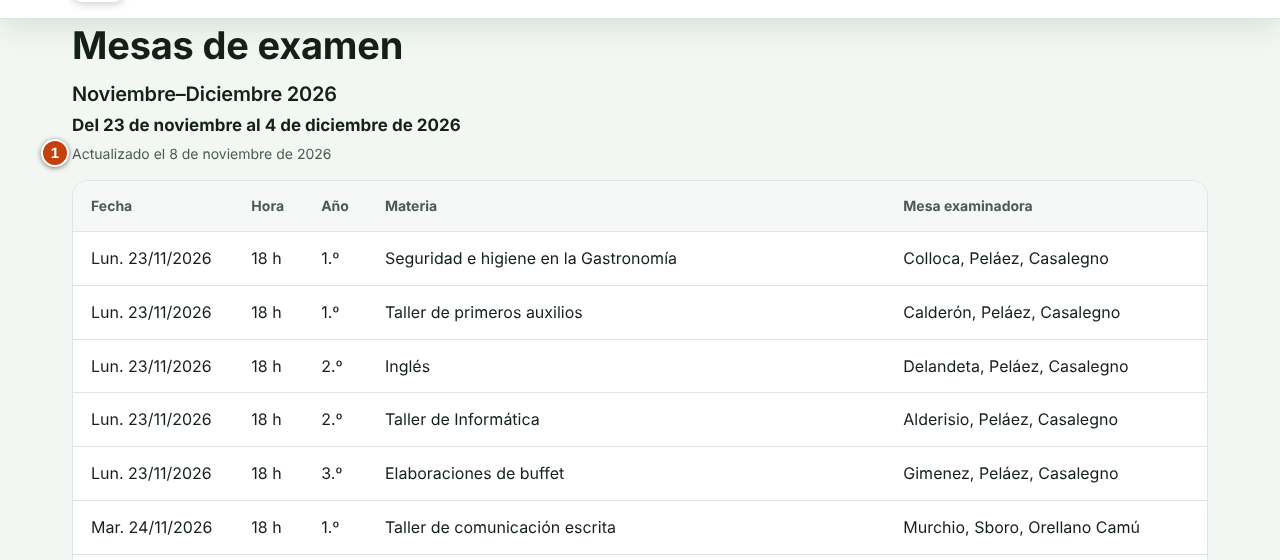
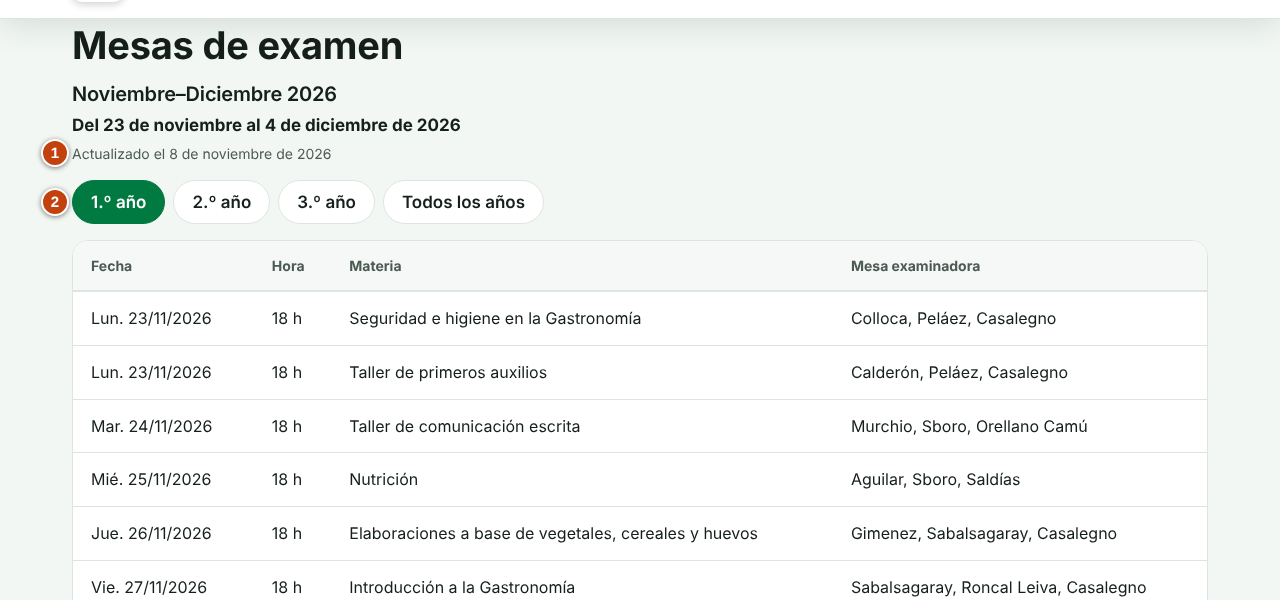
Agrega el filtro por año a las mesas de examen y un alto máximo a las tablas de Alumnos
Las mesas tienen los mismos botones de año que los horarios; con «Todos los años», cada año va debajo de su fila de título. En la computadora, las tablas de horarios y mesas tienen un alto máximo, se desplazan por dentro con el encabezado fijo y vuelven al principio al cambiar el filtro. Actualiza el manual de usuario, sus capturas y el GIF del README.

diff --git a/client/src/components/LlamadoPublico.jsx b/client/src/components/LlamadoPublico.jsx
@@ -1,4 +1,6 @@
-import { avisoDelLlamado, textoAnio, textoFechaDeMesa, textoFechasDelLlamado, textoHoraDeMesa } from "../mesas.js";
+import { useState } from "react";
+import { OPCIONES_DE_ANIO, TODOS_LOS_ANIOS, anioInicial } from "../academica.js";
+import { avisoDelLlamado, textoFechaDeMesa, textoFechasDelLlamado, textoHoraDeMesa } from "../mesas.js";
 
 // Un llamado de mesas de examen tal como lo ven los alumnos: nombre, fechas generales, aviso y tabla.
 // Un llamado sin mesas (un anuncio) no muestra la tabla. Lo que falta se muestra "A confirmar".
@@ -7,14 +9,30 @@ import { avisoDelLlamado, textoAnio, textoFechaDeMesa, textoFechasDelLlamado, te
 // publicación, en el encabezado del llamado; la vista previa del panel no la recibe.
 // En Alumnos, un turno que ya terminó sigue a la vista con «Turno finalizado» ("finalizado" lo calcula el servidor).
 // La vista previa del panel no lo recibe.
+// Como en los horarios, un botón por año de la carrera y «Todos los años»: al entrar se ve el primer año con mesas.
+// Con «Todos los años», cada año va en su propio <tbody>, encabezado por una fila con su nombre; dentro de cada año,
+// las mesas siguen ordenadas por fecha y hora. El PDF del llamado tiene siempre todas las mesas.
 // En el celular cada mesa se muestra como una ficha (fecha y hora arriba, la materia y el resto debajo), sin
 // desplazar la tabla a los costados (H-95). Los encabezados siguen en la tabla, ocultos solo a la vista, y los roles
 // explícitos conservan la tabla para los lectores de pantalla aunque el CSS cambie cómo se dibuja.
+
 export default function LlamadoPublico({ llamado, accion, actualizado }) {
+  const [anio, setAnio] = useState(() => anioInicial(llamado.mesas));
   const fechas = textoFechasDelLlamado(llamado);
   const aviso = avisoDelLlamado(llamado);
   const conTribunal = llamado.mesas.some((m) => m.tribunal);
   const conAula = llamado.mesas.some((m) => m.aula);
+  const columnas = 3 + conTribunal + conAula;
+  const porAnio = anio === TODOS_LOS_ANIOS;
+  const visibles = porAnio ? llamado.mesas : llamado.mesas.filter((m) => m.anioCarrera === anio);
+  // Grupos de filas: uno por año con «Todos los años», o uno solo con el año elegido.
+  const grupos = porAnio
+    ? OPCIONES_DE_ANIO.filter((o) => o.valor !== TODOS_LOS_ANIOS)
+        .map((o) => ({ anio: o.valor, mesas: visibles.filter((m) => m.anioCarrera === o.valor) }))
+        .filter((g) => g.mesas.length > 0)
+    : visibles.length > 0
+      ? [{ anio, mesas: visibles }]
+      : [];
 
   return (
     <article className="llamado-publico">
@@ -28,75 +46,94 @@ export default function LlamadoPublico({ llamado, accion, actualizado }) {
       {actualizado && <p className="actualizado-llamado">{actualizado}</p>}
       {aviso && <p className="aviso-llamado">{aviso}</p>}
       {llamado.mesas.length > 0 && (
-        <div className="tabla-caja">
-          <table role="table">
-            <thead role="rowgroup">
-              <tr role="row">
-                <th role="columnheader" scope="col">
-                  Fecha
-                </th>
-                <th role="columnheader" scope="col">
-                  Hora
-                </th>
-                <th role="columnheader" scope="col" className="col-anio">
-                  Año
-                </th>
-                <th role="columnheader" scope="col">
-                  Materia
-                </th>
-                {conTribunal && (
+        <>
+          <div className="pestanas" role="group" aria-label="Año de la carrera">
+            {OPCIONES_DE_ANIO.map((o) => (
+              <button key={o.valor} type="button" aria-pressed={anio === o.valor} onClick={() => setAnio(o.valor)}>
+                {o.texto}
+              </button>
+            ))}
+          </div>
+          {/* La "key" con el año vuelve a crear la caja al cambiar de año: la tabla empieza otra vez desde arriba,
+              aunque antes se haya desplazado por dentro. */}
+          <div className="tabla-caja" key={anio}>
+            <table role="table">
+              <thead role="rowgroup">
+                <tr role="row">
                   <th role="columnheader" scope="col">
-                    Mesa examinadora
+                    Fecha
                   </th>
-                )}
-                {conAula && (
                   <th role="columnheader" scope="col">
-                    Aula
+                    Hora
                   </th>
-                )}
-              </tr>
-            </thead>
-            <tbody role="rowgroup">
-              {llamado.mesas.map((m) => (
-                // Sin fecha ni hora, la ficha del celular dice una sola vez «Fecha y hora a confirmar». Es solo
-                // visual: los lectores de pantalla siguen leyendo las celdas Fecha y Hora por separado.
-                <tr role="row" key={m.id} className={!m.fecha && !m.hora ? "sin-fecha-ni-hora" : undefined}>
-                  <td role="cell" className="col-fecha sin-corte">
-                    <span className="dato-celda">{textoFechaDeMesa(m.fecha)}</span>
-                    {!m.fecha && !m.hora && (
-                      <span className="fecha-hora-movil" aria-hidden="true">
-                        Fecha y hora a confirmar
-                      </span>
-                    )}
-                  </td>
-                  <td role="cell" className="col-hora sin-corte">
-                    {textoHoraDeMesa(m.hora)}
-                  </td>
-                  <td role="cell" className="col-anio">
-                    {textoAnio(m.anioCarrera)}
-                  </td>
-                  <td role="cell" className="col-materia">
-                    {m.materia}
-                    {/* Solo a la vista en el celular: los lectores de pantalla ya leen la columna Año. */}
-                    <span className="anio-movil" aria-hidden="true">
-                      {textoAnio(m.anioCarrera)} año
-                    </span>
-                  </td>
+                  <th role="columnheader" scope="col">
+                    Materia
+                  </th>
                   {conTribunal && (
-                    <td role="cell" className="col-detalle" data-etiqueta="Mesa examinadora">
-                      {m.tribunal || "A confirmar"}
-                    </td>
+                    <th role="columnheader" scope="col">
+                      Mesa examinadora
+                    </th>
                   )}
                   {conAula && (
-                    <td role="cell" className={"col-detalle" + (m.aula ? "" : " sin-corte")} data-etiqueta="Aula">
-                      {m.aula || "A confirmar"}
-                    </td>
+                    <th role="columnheader" scope="col">
+                      Aula
+                    </th>
                   )}
                 </tr>
+              </thead>
+              {grupos.map((g) => (
+                <tbody role="rowgroup" key={g.anio}>
+                  {porAnio && (
+                    <tr role="row" className="fila-anio">
+                      <th role="rowheader" scope="rowgroup" colSpan={columnas}>
+                        {g.anio}.º año
+                      </th>
+                    </tr>
+                  )}
+                  {g.mesas.map((m) => (
+                    // Sin fecha ni hora, la ficha del celular dice una sola vez «Fecha y hora a confirmar». Es solo
+                    // visual: los lectores de pantalla siguen leyendo las celdas Fecha y Hora por separado.
+                    <tr role="row" key={m.id} className={!m.fecha && !m.hora ? "sin-fecha-ni-hora" : undefined}>
+                      <td role="cell" className="col-fecha sin-corte">
+                        <span className="dato-celda">{textoFechaDeMesa(m.fecha)}</span>
+                        {!m.fecha && !m.hora && (
+                          <span className="fecha-hora-movil" aria-hidden="true">
+                            Fecha y hora a confirmar
+                          </span>
+                        )}
+                      </td>
+                      <td role="cell" className="col-hora sin-corte">
+                        {textoHoraDeMesa(m.hora)}
+                      </td>
+                      <td role="cell" className="col-materia">
+                        {m.materia}
+                      </td>
+                      {conTribunal && (
+                        <td role="cell" className="col-detalle" data-etiqueta="Mesa examinadora">
+                          {m.tribunal || "A confirmar"}
+                        </td>
+                      )}
+                      {conAula && (
+                        <td role="cell" className={"col-detalle" + (m.aula ? "" : " sin-corte")} data-etiqueta="Aula">
+                          {m.aula || "A confirmar"}
+                        </td>
+                      )}
+                    </tr>
+                  ))}
+                </tbody>
               ))}
-            </tbody>
-          </table>
-        </div>
+              {grupos.length === 0 && (
+                <tbody role="rowgroup">
+                  <tr role="row">
+                    <td role="cell" colSpan={columnas}>
+                      No hay mesas de {anio}.º año en este llamado.
+                    </td>
+                  </tr>
+                </tbody>
+              )}
+            </table>
+          </div>
+        </>
       )}
       {accion}
     </article>

diff --git a/client/src/styles.css b/client/src/styles.css
@@ -3842,9 +3842,9 @@ body[data-rol="bedelia"] [data-solo-admin] {
   margin-bottom: 16px;
 }
 
-/* Horarios con «Todos los años»: una fila con el nombre de cada año, en verde claro, distinta del encabezado
-   (gris) y de las filas de las materias (blanco). */
-.horarios-publicos .fila-anio th {
+/* Horarios y mesas con «Todos los años»: una fila con el nombre de cada año, en verde claro, distinta del
+   encabezado (gris) y de las filas (blanco). */
+.fila-anio th {
   padding: 10px 16px;
   background: var(--verde-suave);
   color: var(--verde);
@@ -3852,6 +3852,25 @@ body[data-rol="bedelia"] [data-solo-admin] {
   font-weight: 700;
   text-align: left;
   border-bottom: 1px solid var(--borde);
+}
+
+/* Horarios y mesas en la computadora: la tabla tiene un alto máximo y se desplaza por dentro, con el encabezado de
+   las columnas siempre a la vista. Así cada sección tiene un largo parecido aunque haya muchas filas. En el celular
+   no se aplica: las filas son fichas y un desplazamiento dentro de otro es incómodo con el dedo. */
+@media (min-width: 601px) {
+  .horarios-publicos .tabla-caja,
+  .llamado-publico .tabla-caja {
+    max-height: 560px;
+    overflow-y: auto;
+  }
+
+  .horarios-publicos thead th,
+  .llamado-publico thead th {
+    position: sticky;
+    top: 0;
+    z-index: 1;
+    box-shadow: inset 0 -1px 0 var(--borde);
+  }
 }
 
 /* Horarios publicados en el celular: cada fila es una ficha (día y horario arriba; materia, docente, aula y turno
@@ -4145,18 +4164,21 @@ body[data-rol="bedelia"] [data-solo-admin] {
   align-items: center;
 }
 
-/* Mesas de examen en el celular (H-95): cada mesa es una ficha (fecha y hora arriba; materia, año, mesa
-   examinadora y aula debajo), para no desplazar la tabla a los costados. Reglas propias, separadas de las de los
-   horarios, aunque se parezcan: así un cambio acá no altera cómo se ven los horarios. */
-.llamado-publico .anio-movil,
+/* Botones de año de un llamado, como en los horarios. */
+.llamado-publico .pestanas {
+  margin-bottom: 16px;
+}
+
+/* Mesas de examen en el celular (H-95): cada mesa es una ficha (fecha y hora arriba; materia, mesa examinadora y
+   aula debajo), para no desplazar la tabla a los costados. Reglas propias, separadas de las de los horarios, aunque
+   se parezcan: así un cambio acá no altera cómo se ven los horarios. */
 .llamado-publico .fecha-hora-movil {
   display: none;
 }
 
 @media (max-width: 600px) {
-  /* Los encabezados y la celda Año se ocultan solo a la vista: los lectores de pantalla los siguen leyendo. */
-  .llamado-publico thead,
-  .llamado-publico .col-anio {
+  /* Los encabezados se ocultan solo a la vista: los lectores de pantalla los siguen leyendo. */
+  .llamado-publico thead {
     position: absolute;
     width: 1px;
     height: 1px;
@@ -4181,6 +4203,16 @@ body[data-rol="bedelia"] [data-solo-admin] {
 
   .llamado-publico tr:last-child {
     border-bottom: 0;
+  }
+
+  /* Con «Todos los años», la fila del año ocupa todo el ancho, como un subtítulo entre las fichas. */
+  .llamado-publico .fila-anio {
+    display: block;
+    padding: 0;
+  }
+
+  .llamado-publico .fila-anio th {
+    display: block;
   }
 
   .llamado-publico td {
@@ -4221,13 +4253,6 @@ body[data-rol="bedelia"] [data-solo-admin] {
   .llamado-publico .col-detalle::before {
     content: attr(data-etiqueta) ": ";
     content: attr(data-etiqueta) ": " / "";
-    color: var(--suave);
-  }
-
-  .llamado-publico .anio-movil {
-    display: block;
-    font-size: 14px;
-    font-weight: 400;
     color: var(--suave);
   }
 

diff --git a/server/test/mesas.celular.test.js b/server/test/mesas.celular.test.js
@@ -7,14 +7,20 @@ import { readFileSync } from "node:fs";
 
 const leer = (ruta) => readFileSync(new URL(`../../client/src/${ruta}`, import.meta.url), "utf8");
 
-test("la tabla de mesas conserva sus roles y encabezados, con rótulos y año solo visuales", () => {
+test("la tabla de mesas conserva sus roles y encabezados, con filtro por año y una fila de título por año", () => {
   const llamado = leer("components/LlamadoPublico.jsx");
   for (const rol of ["table", "rowgroup", "row", "columnheader", "cell"]) {
     assert.match(llamado, new RegExp(`role="${rol}"`), `rol ${rol}`);
   }
   assert.match(llamado, /data-etiqueta="Mesa examinadora"/);
   assert.match(llamado, /data-etiqueta="Aula"/);
-  assert.match(llamado, /<span className="anio-movil" aria-hidden="true">/);
+  // Botones de año como en los horarios; con «Todos los años», un <tbody> por año con su fila de título.
+  assert.match(llamado, /OPCIONES_DE_ANIO\.map\(\(o\) => \(\s*<button key=\{o\.valor\} type="button" aria-pressed=\{anio === o\.valor\}/);
+  assert.match(llamado, /useState\(\(\) => anioInicial\(llamado\.mesas\)\)/, "al entrar, el primer año con mesas");
+  assert.match(llamado, /<tbody role="rowgroup" key=\{g\.anio\}>\s*\{porAnio && \(\s*<tr role="row" className="fila-anio">\s*<th role="rowheader" scope="rowgroup" colSpan=\{columnas\}>/);
+  assert.match(llamado, /No hay mesas de \{anio\}\.º año en este llamado\./);
+  assert.doesNotMatch(llamado, /col-anio|anio-movil/, "el año ya no es una columna");
+  assert.match(llamado, /<div className="tabla-caja" key=\{anio\}>/, "al cambiar de año, la tabla vuelve al principio");
   // Los datos que faltan se siguen mostrando como «A confirmar».
   assert.match(llamado, /\{m\.tribunal \|\| "A confirmar"\}/);
   assert.match(llamado, /\{m\.aula \|\| "A confirmar"\}/);
@@ -32,7 +38,8 @@ test("las fichas tienen reglas propias de las mesas, dentro del ancho de celular
   assert.ok(inicio > 0, "bloque de las mesas");
   const bloque = estilos.slice(inicio, estilos.indexOf("/* Alumnos: turno de mesas o período", inicio));
   assert.match(bloque, /@media \(max-width: 600px\)/);
-  assert.match(bloque, /\.llamado-publico thead,\s*\.llamado-publico \.col-anio \{\s*position: absolute;/);
+  assert.match(bloque, /\.llamado-publico thead \{\s*position: absolute;/);
+  assert.match(bloque, /\.llamado-publico \.fila-anio \{\s*display: block;/, "fila del año como subtítulo");
   assert.match(bloque, /content: attr\(data-etiqueta\) ": " \/ "";/, "rótulo decorativo");
   assert.match(bloque, /\.llamado-publico \.acciones \.boton \{\s*width: 100%;/);
   assert.doesNotMatch(bloque, /horarios-publicos/, "no toca los horarios");

diff --git a/server/test/alumnos.test.js b/server/test/alumnos.test.js
@@ -89,9 +89,14 @@ test("horarios: con «Todos los años», una fila con el nombre de cada año, di
   assert.match(tabla, /\{porAnio && \(\s*<tr role="row" className="fila-anio">\s*<th role="rowheader" scope="rowgroup" colSpan=\{columnas\}>\s*\{g\.anio\}\.º año/);
   assert.equal((tabla.match(/scope="rowgroup"/g) || []).length, 1);
   assert.doesNotMatch(tabla, /col-anio|anio-movil/, "ya no hace falta la columna Año");
+  assert.match(tabla, /<div className="tabla-caja" key=\{`\$\{anio\}-\$\{turno\}`\}>/, "al cambiar el filtro, la tabla vuelve al principio");
   assert.doesNotMatch(tabla, /\.° año/, "ordinal «.º»");
   const estilos = leer("styles.css");
-  assert.match(estilos, /\.horarios-publicos \.fila-anio th \{[^}]*background: var\(--verde-suave\);/, "fondo propio, distinto del gris del encabezado");
+  assert.match(estilos, /\n\.fila-anio th \{[^}]*background: var\(--verde-suave\);/, "fondo propio, distinto del gris del encabezado");
+  // En la computadora, horarios y mesas tienen un alto máximo, con el encabezado fijo al desplazar la tabla.
+  const computadora = estilos.slice(estilos.indexOf("@media (min-width: 601px) {"));
+  assert.match(computadora, /\.horarios-publicos \.tabla-caja,\s*\.llamado-publico \.tabla-caja \{\s*max-height: 560px;\s*overflow-y: auto;/);
+  assert.match(computadora, /\.horarios-publicos thead th,\s*\.llamado-publico thead th \{\s*position: sticky;\s*top: 0;/);
   assert.match(tabla, /data-etiqueta="Docente"/, "en el celular cada dato lleva su nombre");
   // Accesibilidad: los encabezados se ocultan solo a la vista y la tabla conserva sus roles.
   assert.match(estilos, /\.horarios-publicos thead \{\s*position: absolute;[\s\S]*?clip: rect\(0 0 0 0\);/);

diff --git a/client/src/components/HorariosPublicos.jsx b/client/src/components/HorariosPublicos.jsx
@@ -71,7 +71,9 @@ export default function HorariosPublicos({ horarios, accion }) {
         )}
       </div>
 
-      <div className="tabla-caja">
+      {/* La "key" con el año y el turno vuelve a crear la caja al cambiar el filtro: la tabla empieza otra vez desde
+          arriba, aunque antes se haya desplazado por dentro. */}
+      <div className="tabla-caja" key={`${anio}-${turno}`}>
         <table role="table">
           <thead role="rowgroup">
             <tr role="row">

diff --git a/docs/manual-de-usuario.md b/docs/manual-de-usuario.md
@@ -126,17 +126,20 @@ Reúne los horarios de cursada y las mesas de examen **publicados** desde el pan
 3. **Descargar horarios (PDF):** descarga los horarios del período que se está viendo.
 4. **Ver otro período:** aparece cuando hay más de un período publicado, por ejemplo el cuatrimestre anterior.
 
-Las mesas de examen se muestran en una franja de otro color. Cada llamado tiene su nombre, sus fechas y una sola tabla con todas sus mesas, ordenadas por fecha:
+En la computadora, si la tabla tiene muchas filas, se desplaza por dentro y los nombres de las columnas quedan siempre a la vista.
+
+Las mesas de examen se muestran en una franja de otro color. Cada llamado tiene su nombre, sus fechas y una tabla con sus mesas, ordenadas por fecha:
 
 ![Comienzo de la tabla de mesas de examen](capturas-manual/sitio-alumnos-mesas.png)
 
 1. **Actualizado el…:** fecha de la última publicación del llamado.
+2. **Botones de cada año:** muestran las mesas de ese año. **Todos los años** muestra los tres, cada uno debajo de una fila verde con el nombre del año.
 
-Al final de la tabla está el botón de descarga:
+En la computadora, la tabla se desplaza por dentro y mantiene visibles los encabezados de las columnas. Al final está el botón de descarga:
 
 ![Final de la tabla de mesas y botón de descarga](capturas-manual/sitio-alumnos-mesas-pdf.png)
 
-2. **Descargar mesas (PDF):** descarga todas las mesas del llamado en un solo archivo.
+3. **Descargar mesas (PDF):** descarga todas las mesas del llamado, de los tres años, en un solo archivo.
 
 Si una mesa no tiene fecha u hora, el sitio muestra «A confirmar». Debajo están los documentos de prácticas profesionalizantes y los enlaces útiles:
 
